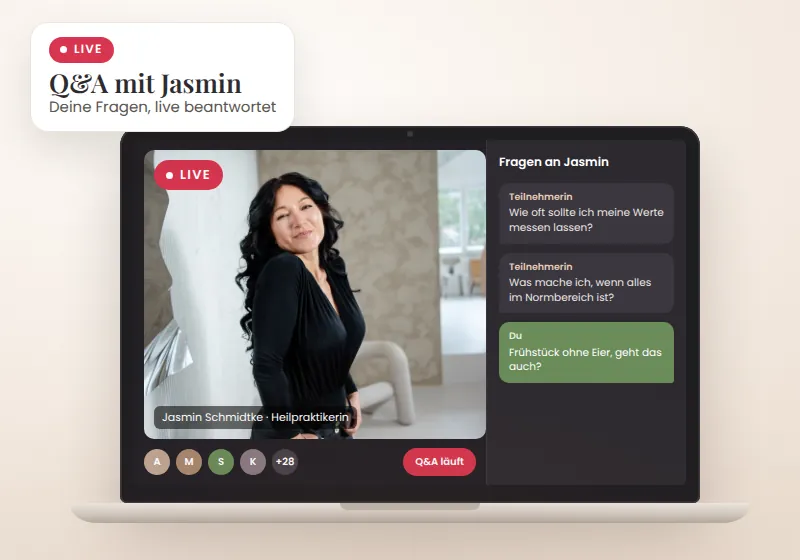
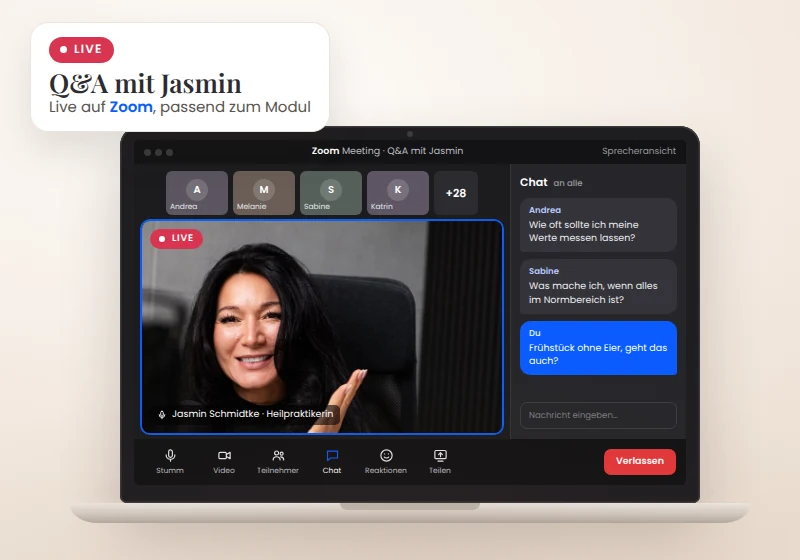
Add files via upload

Changed region(s): [[0.0625, 0.1821, 0.875, 0.8804]]

diff --git a/warteliste.html b/warteliste.html
@@ -231,6 +231,7 @@
     .v-live img { position: absolute; inset: 0; width: 100%; height: 100%; object-fit: cover; object-position: 54% 32%; }
     .v-live::after { content: ''; position: absolute; inset: 0; background: linear-gradient(180deg, rgba(45,43,48,0) 55%, rgba(45,43,48,.55)); }
     .v-live .badge-live { left: 10px; top: 10px; z-index: 2; }
+    .zb { color: #0B5CFF; font-weight: 600; }
     .lv-tag { position: absolute; z-index: 2; left: 10px; bottom: 10px; background: rgba(255,255,255,.94); color: var(--ink); font-size: 11px; font-weight: 600; border-radius: 30px; padding: 4px 11px; }
     /* Zoom-Live-Call (nicht mehr genutzt) */
     .v-zoom { background: var(--dark) !important; padding: 10px; display: grid; grid-template-columns: 1fr 30%; grid-template-rows: 1fr auto; gap: 6px; }
@@ -741,7 +742,7 @@
               <div class="vis v-live">
                 <img src="jasmin-live-webinar.jpg" width="900" height="817" alt="Jasmin Schmidtke live vor der Kamera" loading="lazy" />
                 <span class="badge-live"><i></i>LIVE</span>
-                <span class="lv-tag">Live-Webinar auf Zoom</span>
+                <span class="lv-tag">Live-Webinar auf <b class="zb">Zoom</b></span>
               </div>
               <div class="body">
                 <span class="excl"><svg viewBox="0 0 24 24" fill="currentColor"><circle cx="12" cy="12" r="6"/></svg>Live-Launch-Webinar</span>
@@ -1047,7 +1048,7 @@
             <div class="kv"><img src="bestandteil-live-calls.webp" width="800" height="560" alt="Q&amp;A-Live-Call mit Jasmin auf Zoom" loading="lazy" /></div>
             <span class="kc-lbl">Bestandteil <i>02</i></span>
             <h3><strong>Q&amp;A-Live-Calls</strong> mit&nbsp;Jasmin</h3>
-            <p>Regelmäßig und passend zum Modul. <strong>Fragen stellen statt grübeln.</strong></p>
+            <p>Regelmäßig live auf <b class="zb">Zoom</b>, passend zum Modul. <strong>Fragen stellen statt grübeln.</strong></p>
           </article>
           <article class="kc rv">
             <div class="kv"><img src="bestandteil-community.webp" width="800" height="560" alt="Community mit Räumen für Fragen, Wins und Austausch" loading="lazy" /></div>
